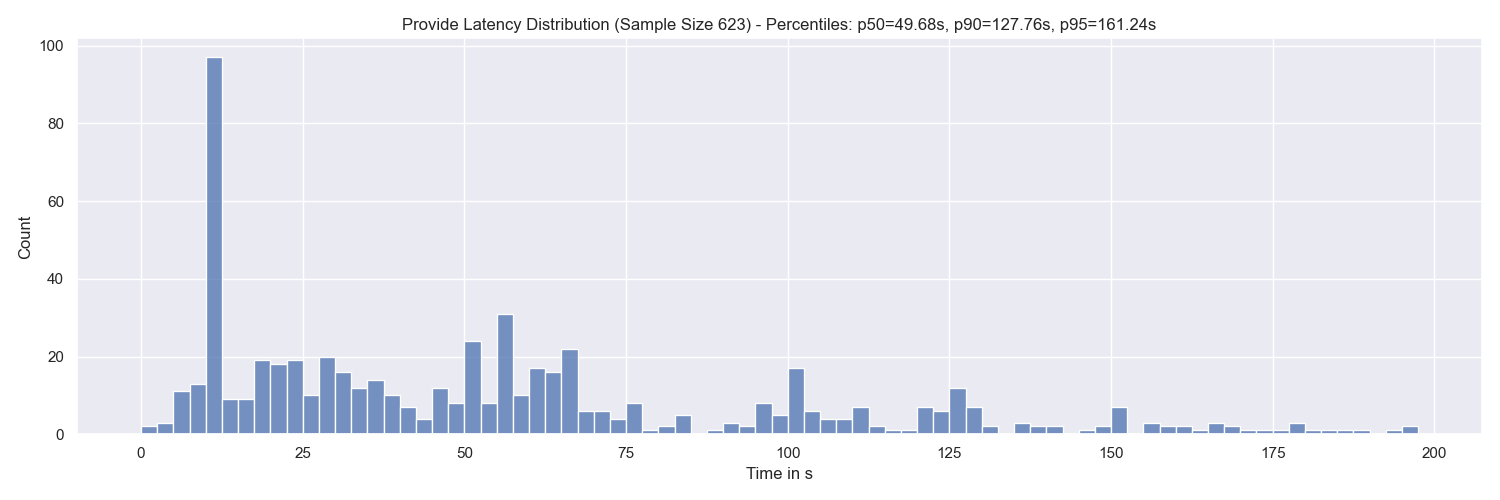
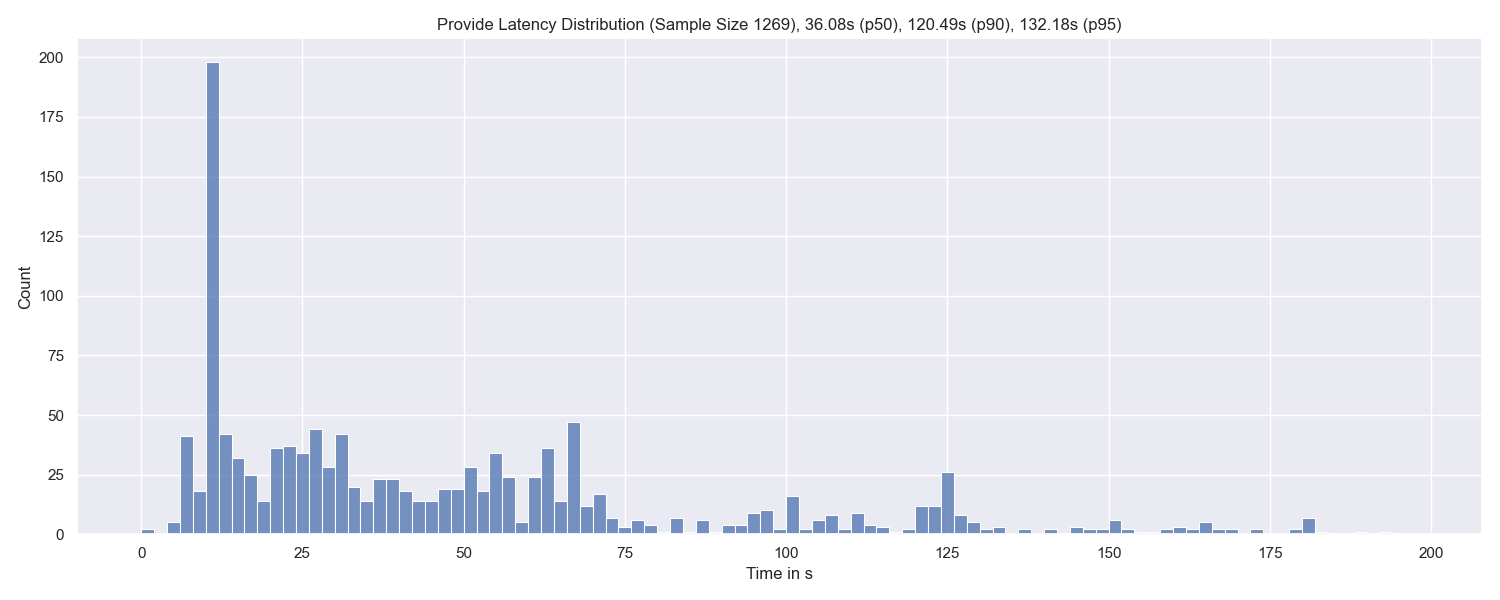
Update plotting code

diff --git a/analysis/plot_provide_delay.py b/analysis/plot_provide_delay.py
@@ -1,41 +1,53 @@
-import json
-import os
-
+import seaborn as sns
 import numpy as np
 import matplotlib.pyplot as plt
+from typing import Tuple, List
+from matplotlib import ticker
 
-# Load measurement information
-from model_measurement import Measurement
-folder = "../results"
-discovered_times = []
-for fn in os.listdir(folder):
-    filepath = os.path.join(folder, fn)
-    if not os.path.isfile(filepath):
-        continue
+from model_loader import ModelLoader
 
-    measurement = Measurement.from_file(filepath)
 
-    selected_peers = []
-    provided_times = []
+def plot():
+    sns.set_theme()
 
-    first_provide = None
-    for span in measurement.provider.spans:
-        if span.operation != "send_message":
-            continue
-        selected_peers += [span.peer_id]
-        provided_times += [span.rel_start]
+    add_provider_delay = []
 
-    for idx, peer in enumerate(selected_peers):
-        provided_time = provided_times[idx]
-        peer_info = measurement.provider.peer_infos[peer]
-        if peer_info.discovered_from == "":
-            discovered_times += [provided_time]
-        else:
-            discovered_times += [provided_time - peer_info.rel_discovered_at]
+    measurements = ModelLoader.open("../data")
+    for measurement in measurements:
 
-plt.hist(discovered_times, bins=np.arange(100))
+        selected_peers: List[Tuple[str, float]] = []
 
-plt.xlabel("Discover Provide Delay in s")
-plt.ylabel("Count")
+        first_provide = None
+        for span in measurement.provider.spans:
+            if span.type != "ADD_PROVIDER":
+                continue
+            selected_peers += [(span.peer_id, span.rel_start)]
 
-plt.show()
+        for peer in selected_peers:
+            peer_info = measurement.provider.peer_infos[peer[0]]
+            if peer_info.discovered_from == "":
+                add_provider_delay += [peer[1]]
+            else:
+                add_provider_delay += [peer[1] - peer_info.rel_discovered_at]
+
+    fig, ax = plt.subplots(figsize=(15, 6))
+
+    p50 = "%.2f" % np.percentile(add_provider_delay, 50)
+    p90 = "%.2f" % np.percentile(add_provider_delay, 90)
+    p95 = "%.2f" % np.percentile(add_provider_delay, 95)
+
+    sns.histplot(ax=ax, x=add_provider_delay, bins=np.arange(0, 100))
+    ax.set_xlabel("Time in s")
+    ax.set_ylabel("Count")
+    ax.get_yaxis().set_major_formatter(ticker.FuncFormatter(lambda x, p: "%.1fk" % (x / 1000)))
+
+    ax.title.set_text(
+        f"Peer Discovery to ADD_PROVIDER RPC Delay (Sample Size {len(add_provider_delay)}), {p50}s (p50), {p90}s (p90), {p95}s (p95)")
+
+    plt.tight_layout()
+    plt.savefig("../plots/provide_delay.png")
+    plt.show()
+
+
+if __name__ == '__main__':
+    plot()

diff --git a/analysis/model_loader.py b/analysis/model_loader.py
@@ -15,14 +15,37 @@ class ModelLoader:
         a dump of the resulting data structure in that folder for
         future fast loading. If that "cached" pickeled version
         already exists it won't parse the folder and just load that.
+        It also filters the loaded measurements for measurement instances
+        that have 20 ADD_PROVIDER RPCs. See __filter_measurmenets for
+        a little more information.
         """
         parsed_path = os.path.join(folder, ModelLoader.parsed_filename)
         if os.path.isfile(parsed_path):
-            return ModelLoader.load(parsed_path)
+            return ModelLoader.__filter_measurements(ModelLoader.load(parsed_path))
 
         measurements = ModelLoader.parse(folder)
         ModelLoader.save(folder, measurements)
-        return measurements
+
+        return ModelLoader.__filter_measurements(measurements)
+
+    @staticmethod
+    def __filter_measurements(measurements: List[Measurement]) -> List[Measurement]:
+        """
+        I observed some errors in the measurement runs and that 8 out of the >1k measurement runs
+        didn't run 20 RPCs to store a provider record but less. I'm excluding them from the final
+        measurements as I assume (only assume!) that this is related to these errors.
+        """
+        filtered_measurements = []
+        for measurement in measurements:
+            count = 0
+            for span in measurement.provider.spans:
+                if span.type == "ADD_PROVIDER":
+                    count += 1
+            if count == 20:
+                filtered_measurements += [measurement]
+        print(f"Filtered {len(measurements) - len(filtered_measurements)} measurements")
+        return filtered_measurements
+
 
     @staticmethod
     def load(filename) -> List[Measurement]:
@@ -63,8 +86,3 @@ class ModelLoader:
                 print("Error loading " + filepath)
 
         return measurements
-
-
-if __name__ == '__main__':
-    measurements = ModelLoader.load("save.p")
-    print(measurements)

diff --git a/analysis/plot_latencies.py b/analysis/plot_latencies.py
@@ -15,7 +15,7 @@ def plot():
     request_latencies = []
     discover_provider_latencies = []
 
-    measurements = ModelLoader.open("../measurements")
+    measurements = ModelLoader.open("../data")
     for measurement in measurements:
         provide_latencies += [measurement.provider.duration.total_seconds()]
 
@@ -29,26 +29,12 @@ def plot():
                 continue
             discover_provider_latencies += [peer_info.rel_discovered_at]
 
-    print("discover_provider_latencies", np.percentile(discover_provider_latencies, 50))
-    print("discover_provider_latencies", np.percentile(discover_provider_latencies, 90))
-    print("discover_provider_latencies", np.percentile(discover_provider_latencies, 95))
-    fig, (ax) = plt.subplots(figsize=(15, 5))
-    sns.histplot(ax=ax, x=discover_provider_latencies, bins=np.arange(0, 3, 0.05))
-    ax.set_xlabel("Time in s")
-    ax.set_ylabel("Count")
-    p50 = "%.2f" % np.percentile(discover_provider_latencies, 50)
-    p90 = "%.2f" % np.percentile(discover_provider_latencies, 90)
-    p95 = "%.2f" % np.percentile(discover_provider_latencies, 95)
-    ax.title.set_text(f"Find Provider Latency Distribution (Sample Size {len(discover_provider_latencies)}) - Percentiles: {p50}s (p50), {p90}s (p90), {p95}s (p95)")
-    plt.tight_layout()
-    plt.savefig("../plots/find_latencies.png")
-
     fig, ((ax1, ax2), (ax3, ax4)) = plt.subplots(2, 2, figsize=(15, 10))
 
     print("provide_latencies", np.percentile(provide_latencies, 50))
     print("provide_latencies", np.percentile(provide_latencies, 90))
     print("provide_latencies", np.percentile(provide_latencies, 95))
-    sns.histplot(ax=ax1, x=provide_latencies, bins=np.arange(0, 120, 5))
+    sns.histplot(ax=ax1, x=provide_latencies, bins=np.arange(0, 200, 2))
     ax1.set_xlabel("Time in s")
     ax1.set_ylabel("Count")
     ax1.title.set_text(f"Provide Latency Distribution (Sample Size {len(provide_latencies)})")

diff --git a/analysis/plot_distance.py b/analysis/plot_distance.py
@@ -5,21 +5,11 @@ import seaborn as sns
 from model_loader import ModelLoader
 import matplotlib.pyplot as plt
 
-folder = "../results"
-
 
 def plot():
     sns.set_theme()
 
-    measurements = ModelLoader.open("../measurements")
-
-    # for measurement in measurements:
-    #     count = 0
-    #     for span in measurement.provider.spans:
-    #         if span.type == "ADD_PROVIDER":
-    #             count += 1
-    #     if count != 20:
-    #         print(measurement.started_at, count)
+    measurements = ModelLoader.open("../data")
 
     distances = []
     has_errors = []
@@ -36,7 +26,8 @@ def plot():
         "distances": distances,
         "error": has_errors
     })
-    fig, ax = plt.subplots(figsize=(15, 5))
+
+    fig, ax = plt.subplots(figsize=(15, 6))
 
     sns.histplot(
         ax=ax,
@@ -49,10 +40,10 @@ def plot():
     ax.set_ylabel("Count")
     ax.set_xlabel("Normed XOR Distance in %")
 
-    plt.title(
-        f"Selected Peers by XOR Target Distance (Measurements {len(measurements)}, ADD_PROVIDER RPCs {len(combined)})")
+    stats_str = f"Measurements {len(measurements)}; ADD_PROVIDER RPCs {len(combined)}"
+    plt.title(f"Selected Peers by XOR Target Distance to Provided CID ({stats_str})")
     plt.tight_layout()
-    plt.savefig("../plots/peer_distances.png")
+    plt.savefig("../plots/distance.png")
     plt.show()
 
 

diff --git a/analysis/plot_discover_latencies.py b/analysis/plot_discover_latencies.py
@@ -1,0 +1,41 @@
+import numpy as np
+import seaborn as sns
+from matplotlib import ticker
+
+from model_loader import ModelLoader
+import matplotlib.pyplot as plt
+
+folder = "../results"
+
+
+def plot():
+    sns.set_theme()
+
+    discover_latencies = []
+
+    measurements = ModelLoader.open("../data")
+    for measurement in measurements:
+        for provider_id in measurement.provider.providers:
+            peer_info = measurement.provider.peer_infos[provider_id]
+            discover_latencies += [peer_info.rel_discovered_at]
+
+    fig, ax = plt.subplots(figsize=(15, 6))
+
+    p50 = "%.2f" % np.percentile(discover_latencies, 50)
+    p90 = "%.2f" % np.percentile(discover_latencies, 90)
+    p95 = "%.2f" % np.percentile(discover_latencies, 95)
+
+    sns.histplot(ax=ax, x=discover_latencies, bins=np.arange(0, 2.5, 0.05))
+    ax.set_xlabel("Time in s")
+    ax.set_ylabel("Count")
+
+    ax.get_yaxis().set_major_formatter(ticker.FuncFormatter(lambda x, p: "%.1fk" % (x / 1000)))
+    ax.title.set_text(f"Discover Provider Latency Distribution (Sample Size {len(discover_latencies)}), {p50}s (p50), {p90}s (p90), {p95}s (p95)")
+
+    plt.tight_layout()
+    plt.savefig("../plots/discover_latencies.png")
+    plt.show()
+
+
+if __name__ == '__main__':
+    plot()

diff --git a/analysis/plot_hydra.py b/analysis/plot_hydra.py
@@ -1,4 +1,4 @@
-from model_measurement import Measurement
+from model_loader import ModelLoader
 
 
 def main():
@@ -6,14 +6,15 @@ def main():
     hydra_peers = 0
     seen = {}
 
-    measurement = Measurement.from_file("../out/2021-11-04T16:20_measurement_002.json")
-    for peer_info in measurement.provider.peer_infos.values():
-        if peer_info.id in seen:
-            continue
-        seen[peer_info.id] = True
-        all_peers += 1
-        if "hydra" in peer_info.agent_version:
-            hydra_peers += 1
+    measurements = ModelLoader.open("../data")
+    for measurement in measurements:
+        for peer_info in measurement.provider.peer_infos.values():
+            if peer_info.id in seen:
+                continue
+            seen[peer_info.id] = True
+            all_peers += 1
+            if "hydra" in peer_info.agent_version:
+                hydra_peers += 1
 
     print("Hydra Peers", hydra_peers)
     print("All Peers", all_peers)

diff --git a/analysis/plot_provide_latencies.py b/analysis/plot_provide_latencies.py
@@ -1,0 +1,31 @@
+import numpy as np
+import seaborn as sns
+
+from model_loader import ModelLoader
+import matplotlib.pyplot as plt
+
+
+def plot():
+    sns.set_theme()
+
+    provide_latencies = [m.provider.duration.total_seconds() for m in ModelLoader.open("../data")]
+
+    fig, ax = plt.subplots(figsize=(15, 6))
+
+    p50 = "%.2f" % np.percentile(provide_latencies, 50)
+    p90 = "%.2f" % np.percentile(provide_latencies, 90)
+    p95 = "%.2f" % np.percentile(provide_latencies, 95)
+
+    sns.histplot(ax=ax, x=provide_latencies, bins=np.arange(0, 200, 2))
+    ax.set_xlabel("Time in s")
+    ax.set_ylabel("Count")
+
+    ax.title.set_text(f"Provide Latency Distribution (Sample Size {len(provide_latencies)}), {p50}s (p50), {p90}s (p90), {p95}s (p95)")
+
+    plt.tight_layout()
+    plt.savefig("../plots/provide_latencies.png")
+    plt.show()
+
+
+if __name__ == '__main__':
+    plot()

diff --git a/analysis/lib_fmt.py b/analysis/lib_fmt.py
@@ -1,0 +1,6 @@
+def fmt_thousands(val: int) -> str:
+    return format(val, ",")
+
+
+def fmt_percentage(total: int):
+    return lambda val: "%.1f%%" % (100 * val / total)
